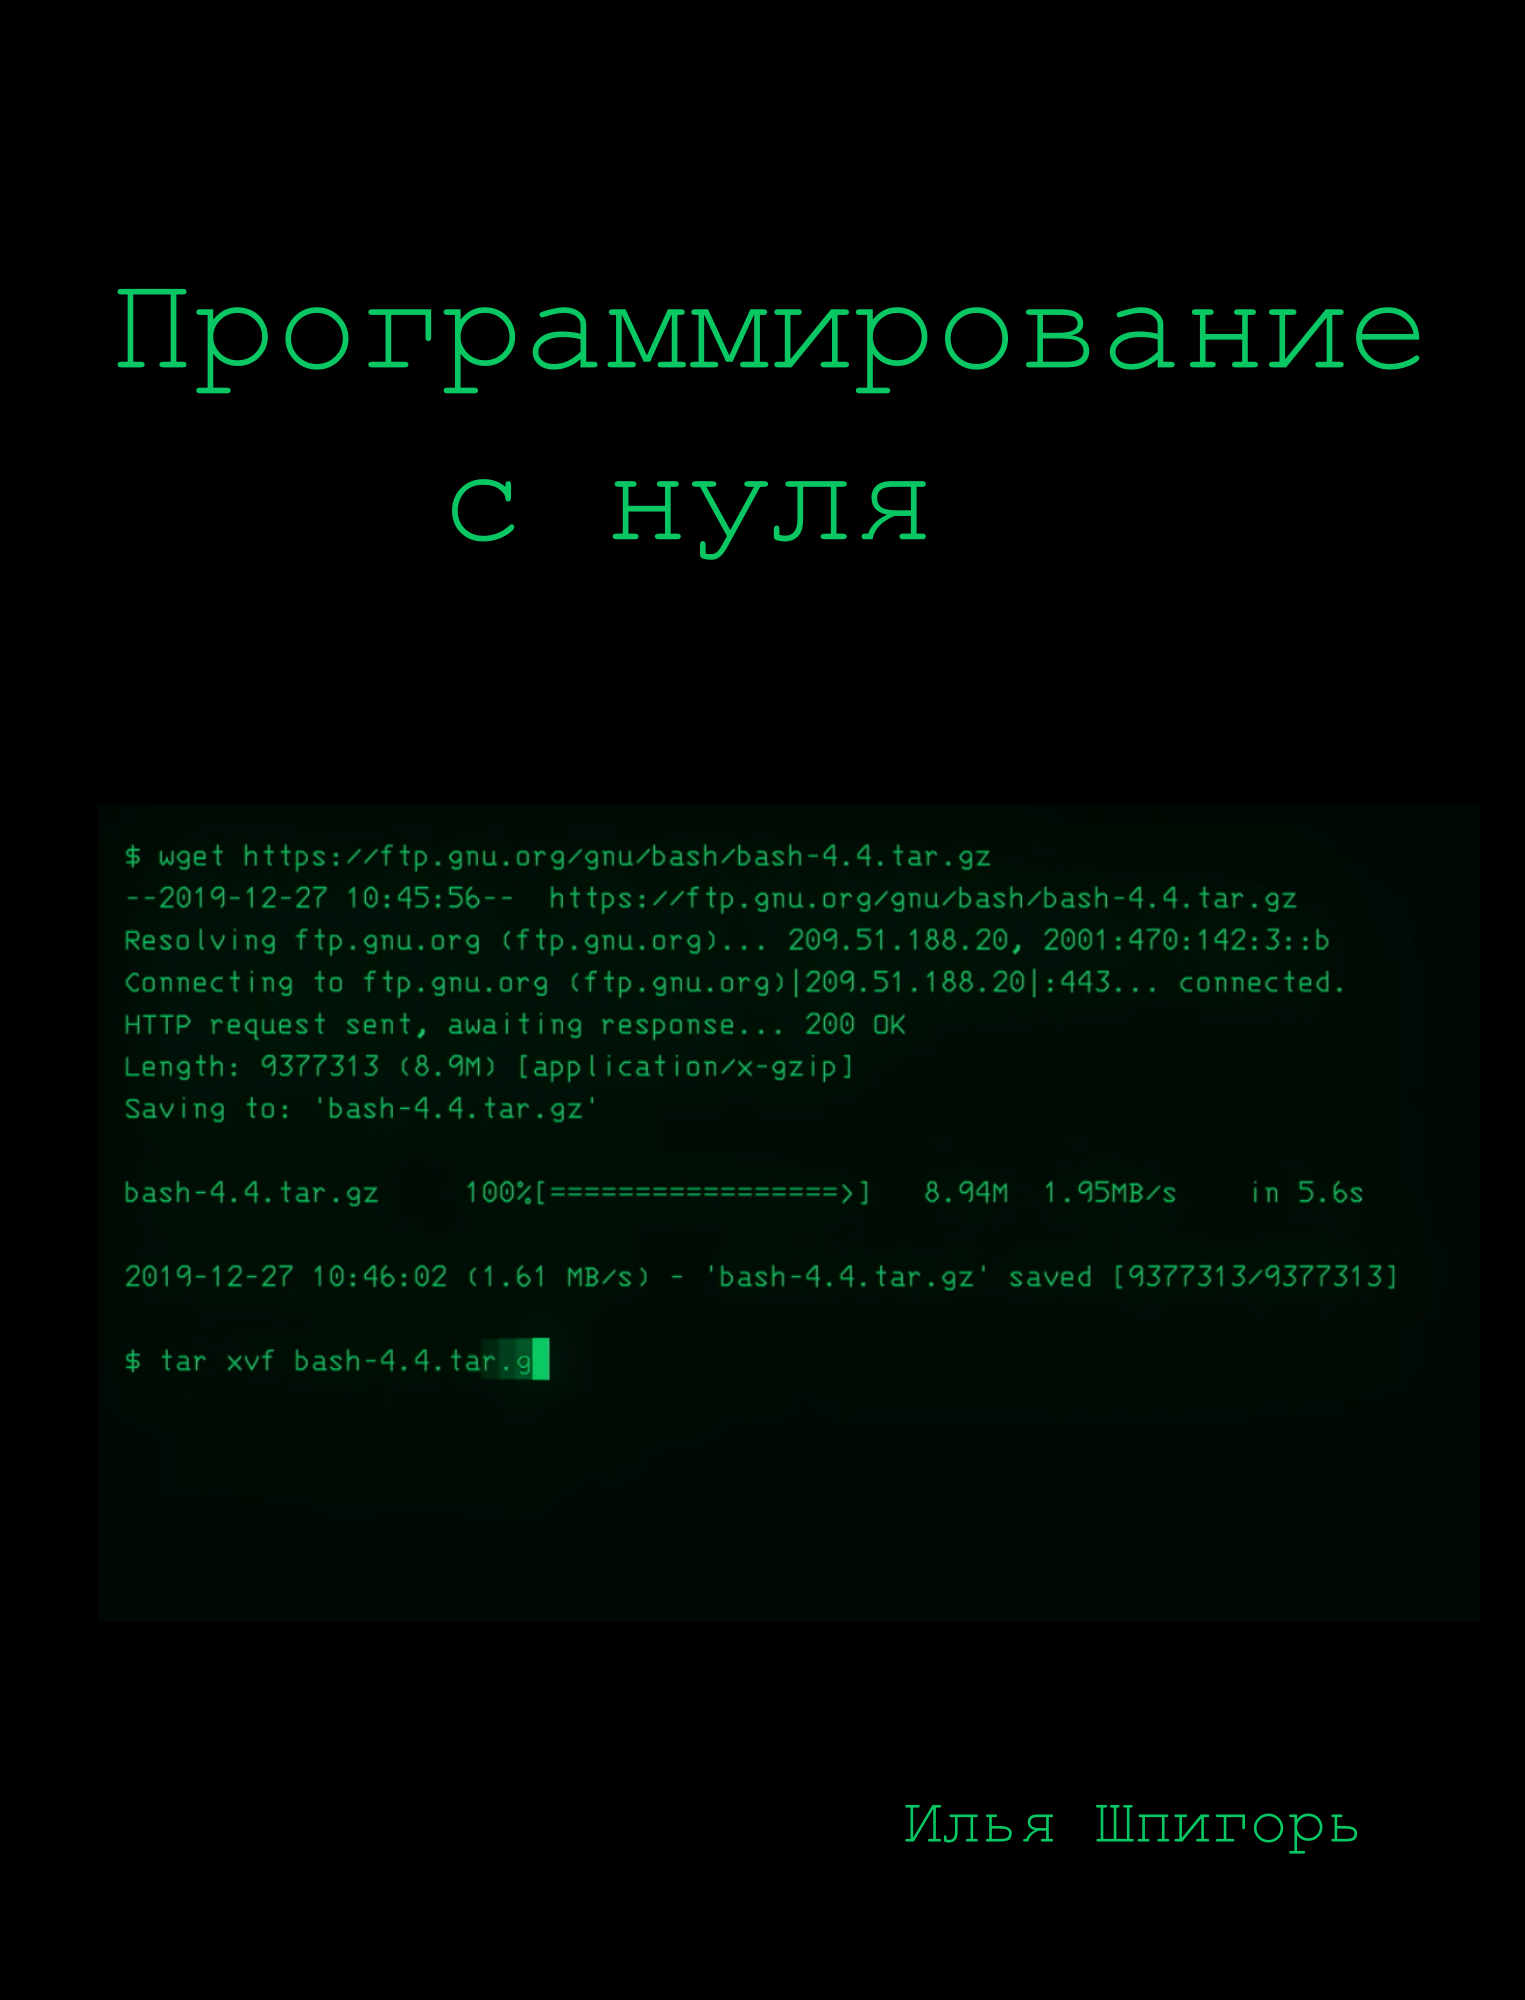
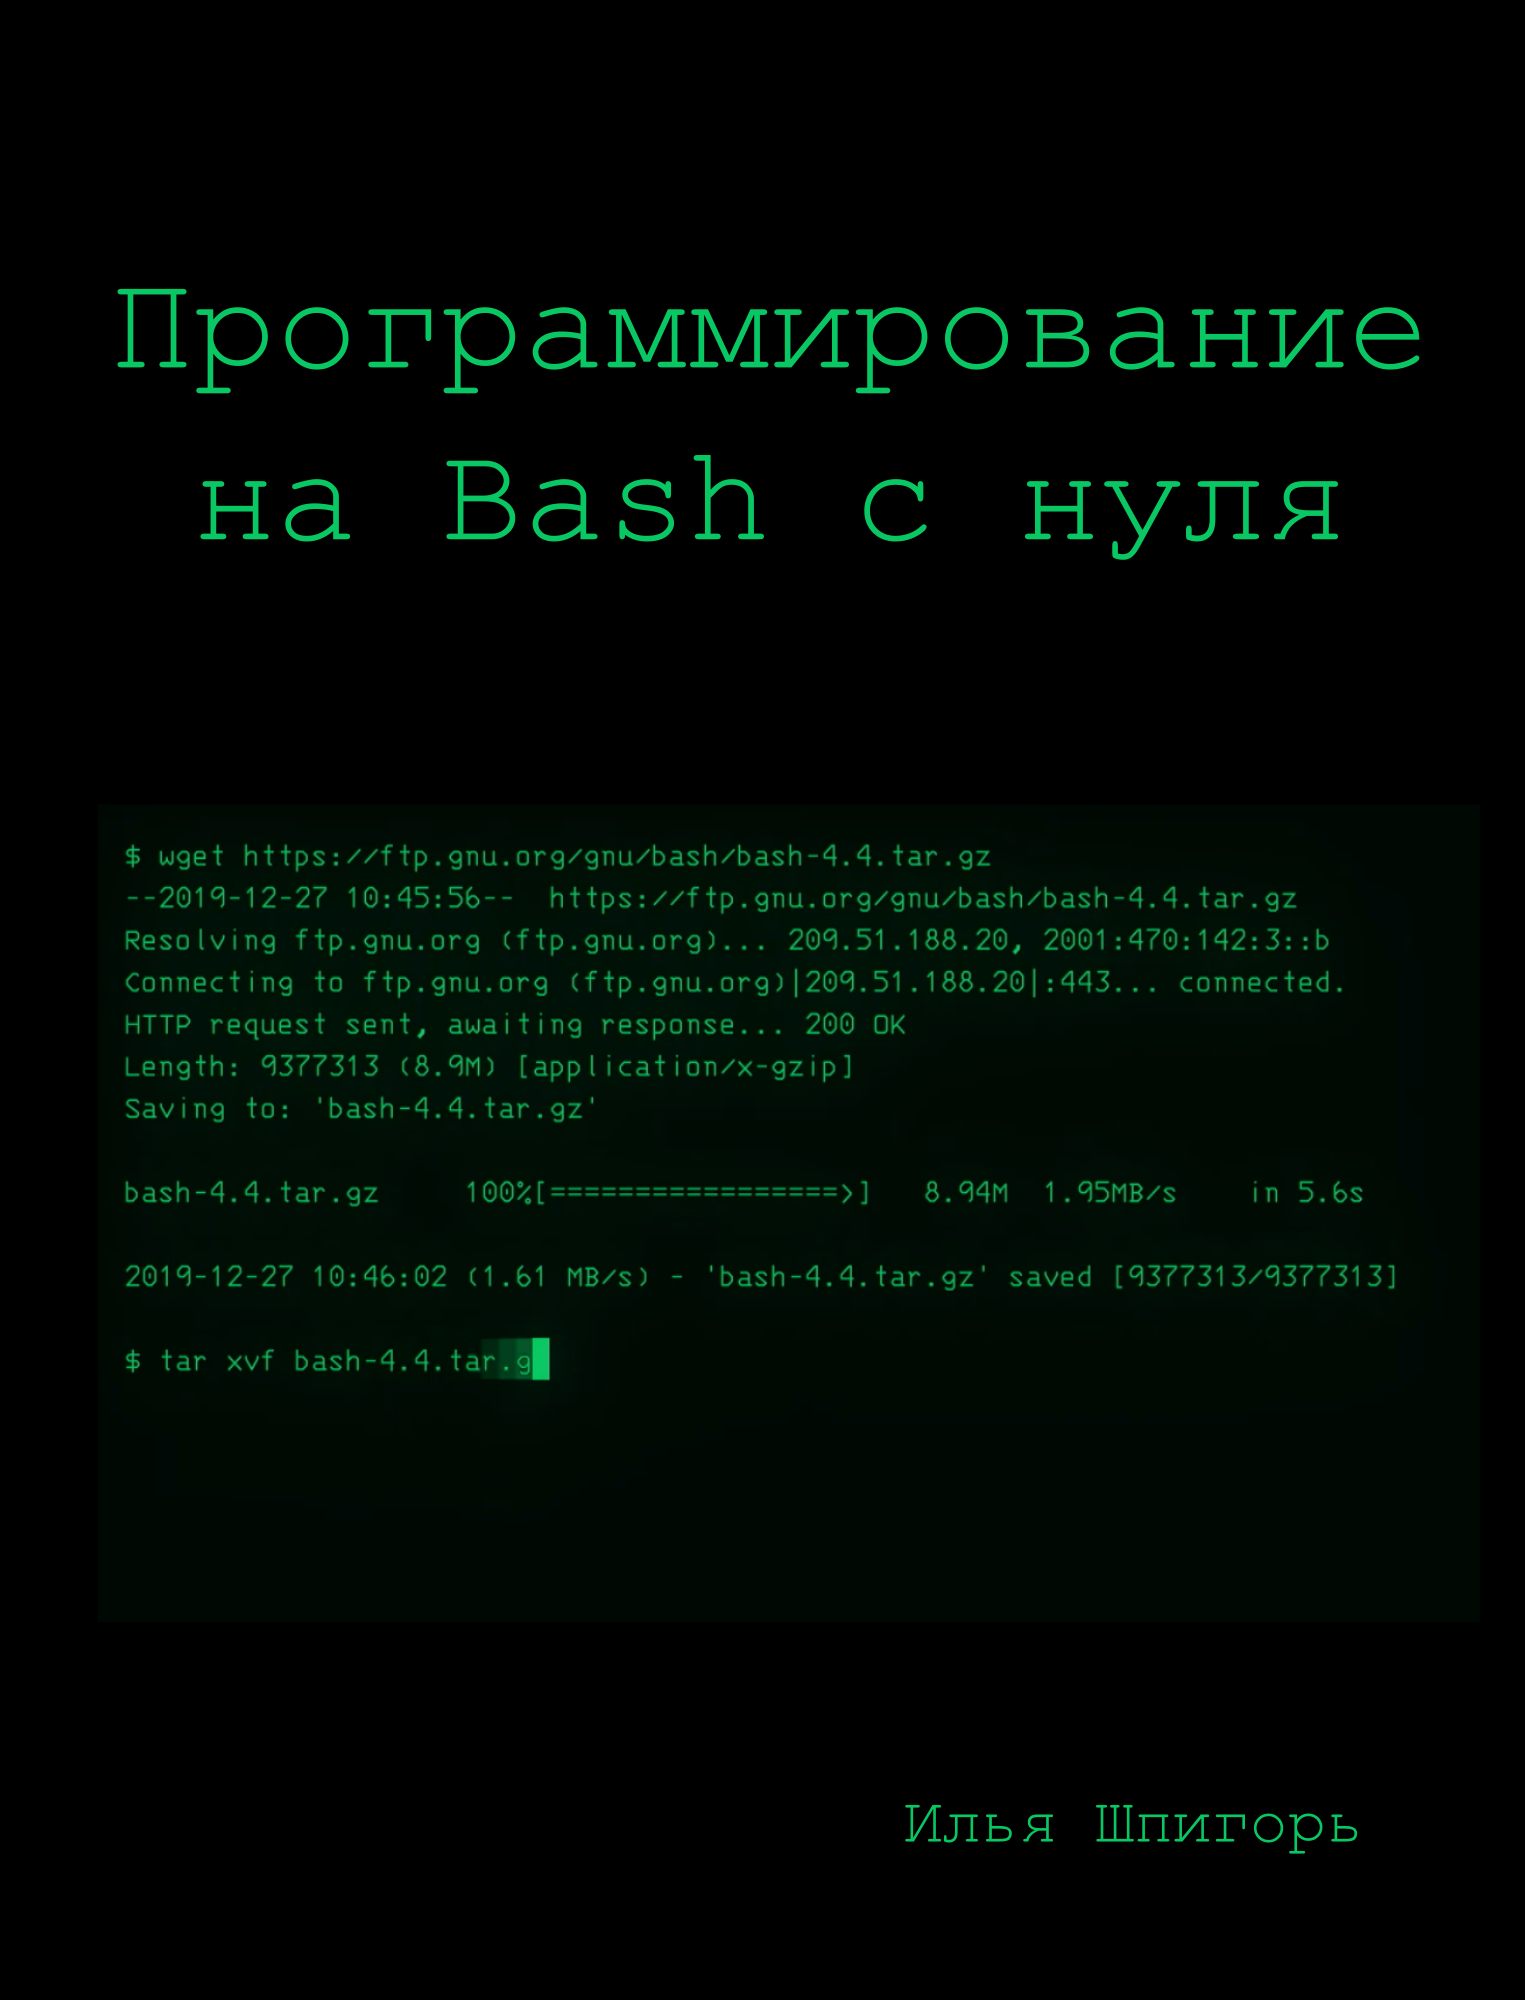
Rename the book to "Bash programming from scratch"

Changed region(s): [[0.2774, 0.217, 0.6164, 0.279], [0.678, 0.248, 0.8938, 0.279], [0.1233, 0.248, 0.2466, 0.279]]

diff --git a/README.md b/README.md
@@ -1,4 +1,4 @@
-# Программирование с нуля
+# Программирование на Bash с нуля
 
 *Книга находится в процессе написания. В ней есть ошибки и опечатки. Обо всех обнаруженных проблемах и предложениях, пожалуйста, [напишите автору](mailto:petrsum@gmail.com). Черновик публикуется для получения обратной связи.*
 
